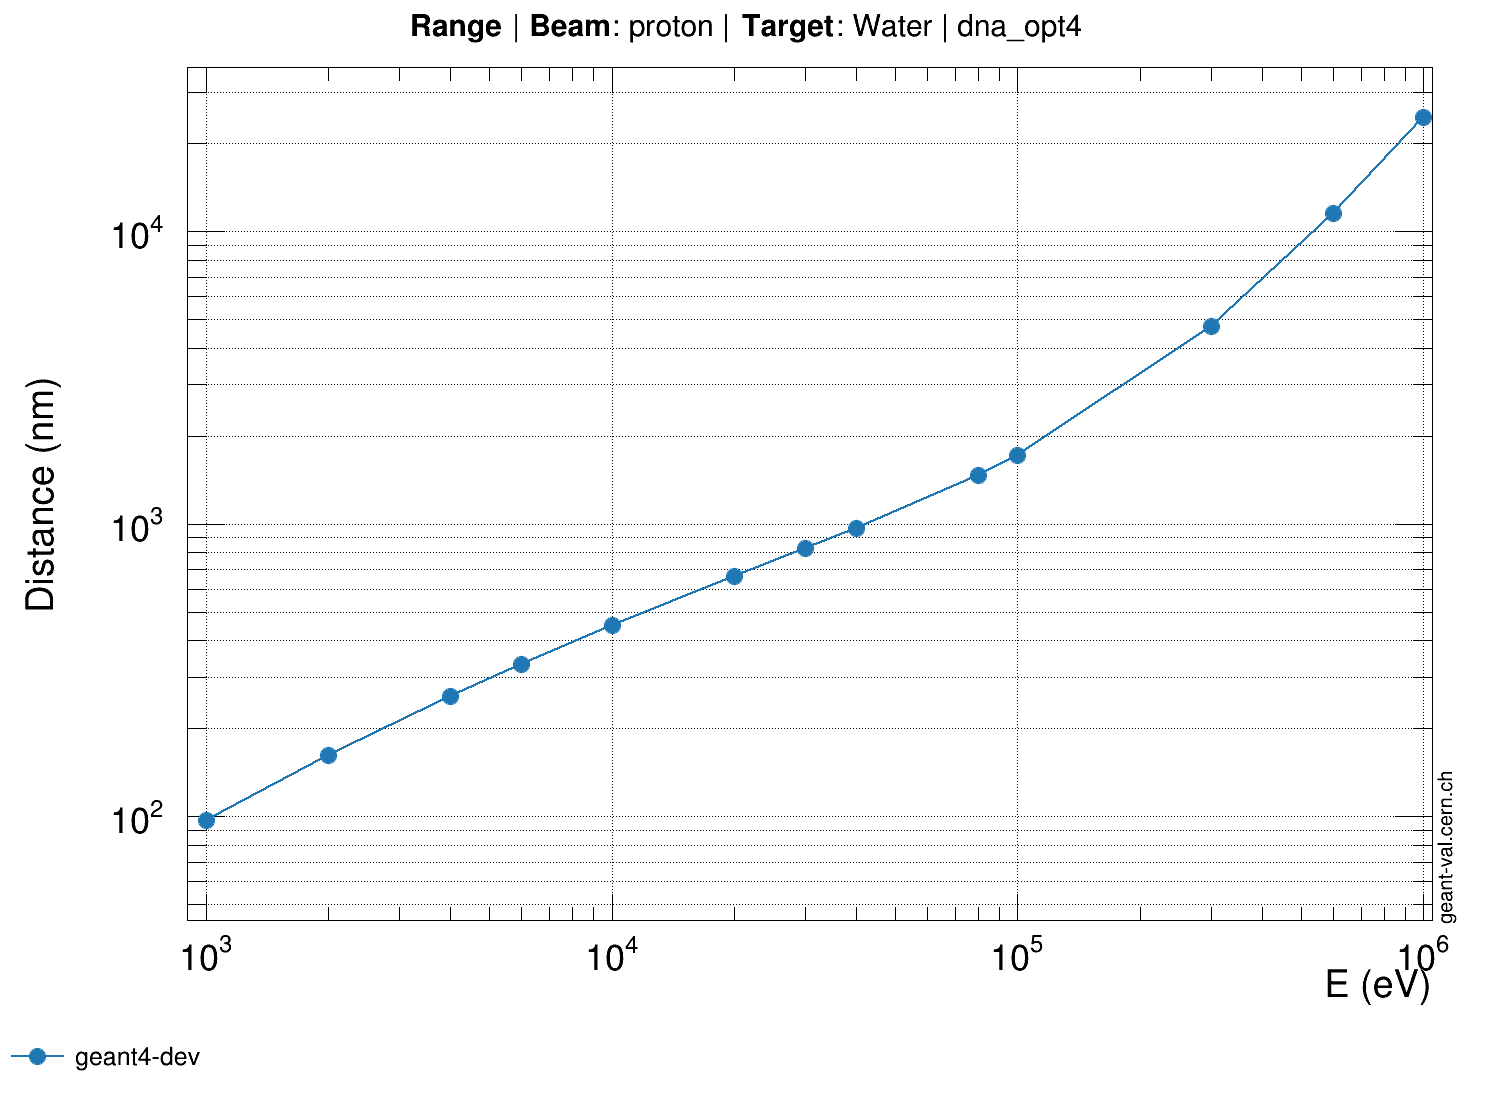
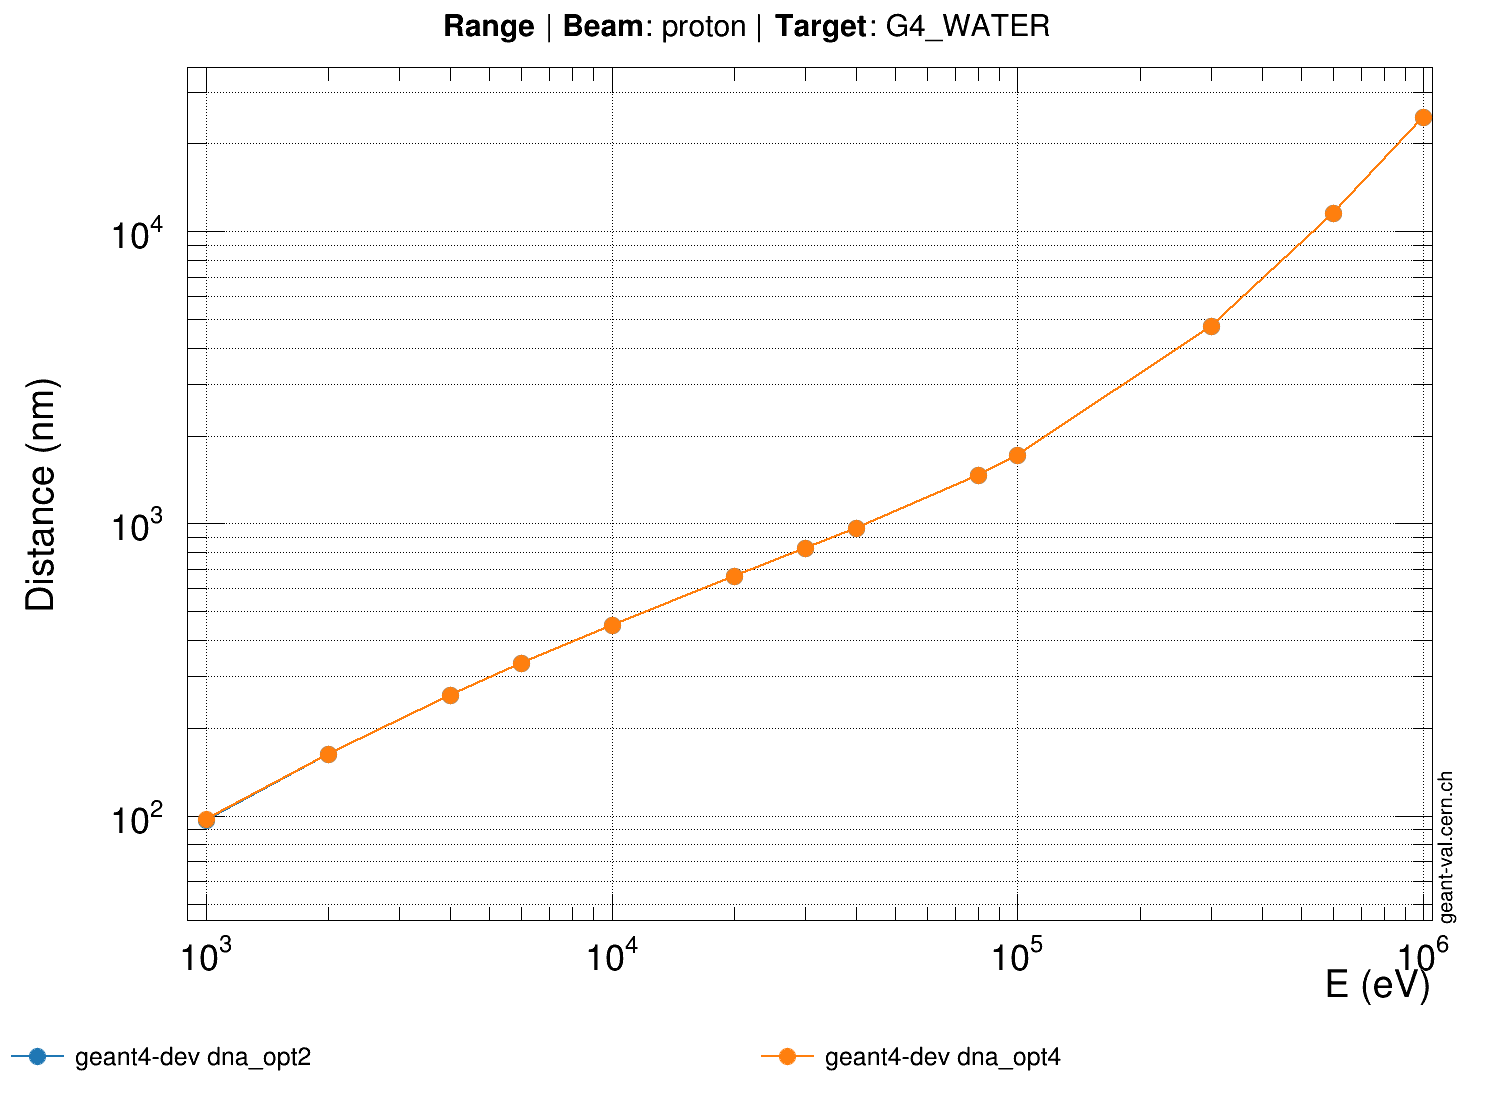
range/proton.conf/geant4-dev : ven. juin  2 10:36:06 CEST 2023

diff --git a/assets/OUTPUTJSON/geant4/geant4-dev/x86_64/range/proton.conf.c b/assets/OUTPUTJSON/geant4/geant4-dev/x86_64/range/proton.conf.c
@@ -66,3 +66,139 @@ double gvp_id-1_yerrors[13] = {
   0,
   0
 };
+// Tool:               GEANT4
+// Version:            geant4-dev
+// Model:              dna_opt2
+// Observable:         range
+// Target:             G4_WATER
+// Beam Particle:      proton
+// Secondary Particle: None
+
+double gvp_id-1_x[13] = {
+  1000,
+  2000,
+  4000,
+  6000,
+  10000,
+  20000,
+  30000,
+  40000,
+  80000,
+  100000,
+  300000,
+  600000,
+  1e+06
+};
+double gvp_id-1_y[13] = {
+  97.043,
+  162.982,
+  258.86,
+  333.451,
+  450.222,
+  661.064,
+  823.977,
+  965.895,
+  1470.18,
+  1713.94,
+  4751.86,
+  11532,
+  24533.4
+};
+double gvp_id-1_xerrors[13] = {
+  0,
+  0,
+  0,
+  0,
+  0,
+  0,
+  0,
+  0,
+  0,
+  0,
+  0,
+  0,
+  0
+};
+double gvp_id-1_yerrors[13] = {
+  0,
+  0,
+  0,
+  0,
+  0,
+  0,
+  0,
+  0,
+  0,
+  0,
+  0,
+  0,
+  0
+};
+// Tool:               GEANT4
+// Version:            geant4-dev
+// Model:              dna_opt4
+// Observable:         range
+// Target:             G4_WATER
+// Beam Particle:      proton
+// Secondary Particle: None
+
+double gvp_id-1_x[13] = {
+  1000,
+  2000,
+  4000,
+  6000,
+  10000,
+  20000,
+  30000,
+  40000,
+  80000,
+  100000,
+  300000,
+  600000,
+  1e+06
+};
+double gvp_id-1_y[13] = {
+  97.5713,
+  162.432,
+  258.069,
+  332.877,
+  451.097,
+  660.954,
+  823.597,
+  965.654,
+  1468.11,
+  1715,
+  4749,
+  11560.4,
+  24690.5
+};
+double gvp_id-1_xerrors[13] = {
+  0,
+  0,
+  0,
+  0,
+  0,
+  0,
+  0,
+  0,
+  0,
+  0,
+  0,
+  0,
+  0
+};
+double gvp_id-1_yerrors[13] = {
+  0,
+  0,
+  0,
+  0,
+  0,
+  0,
+  0,
+  0,
+  0,
+  0,
+  0,
+  0,
+  0
+};
